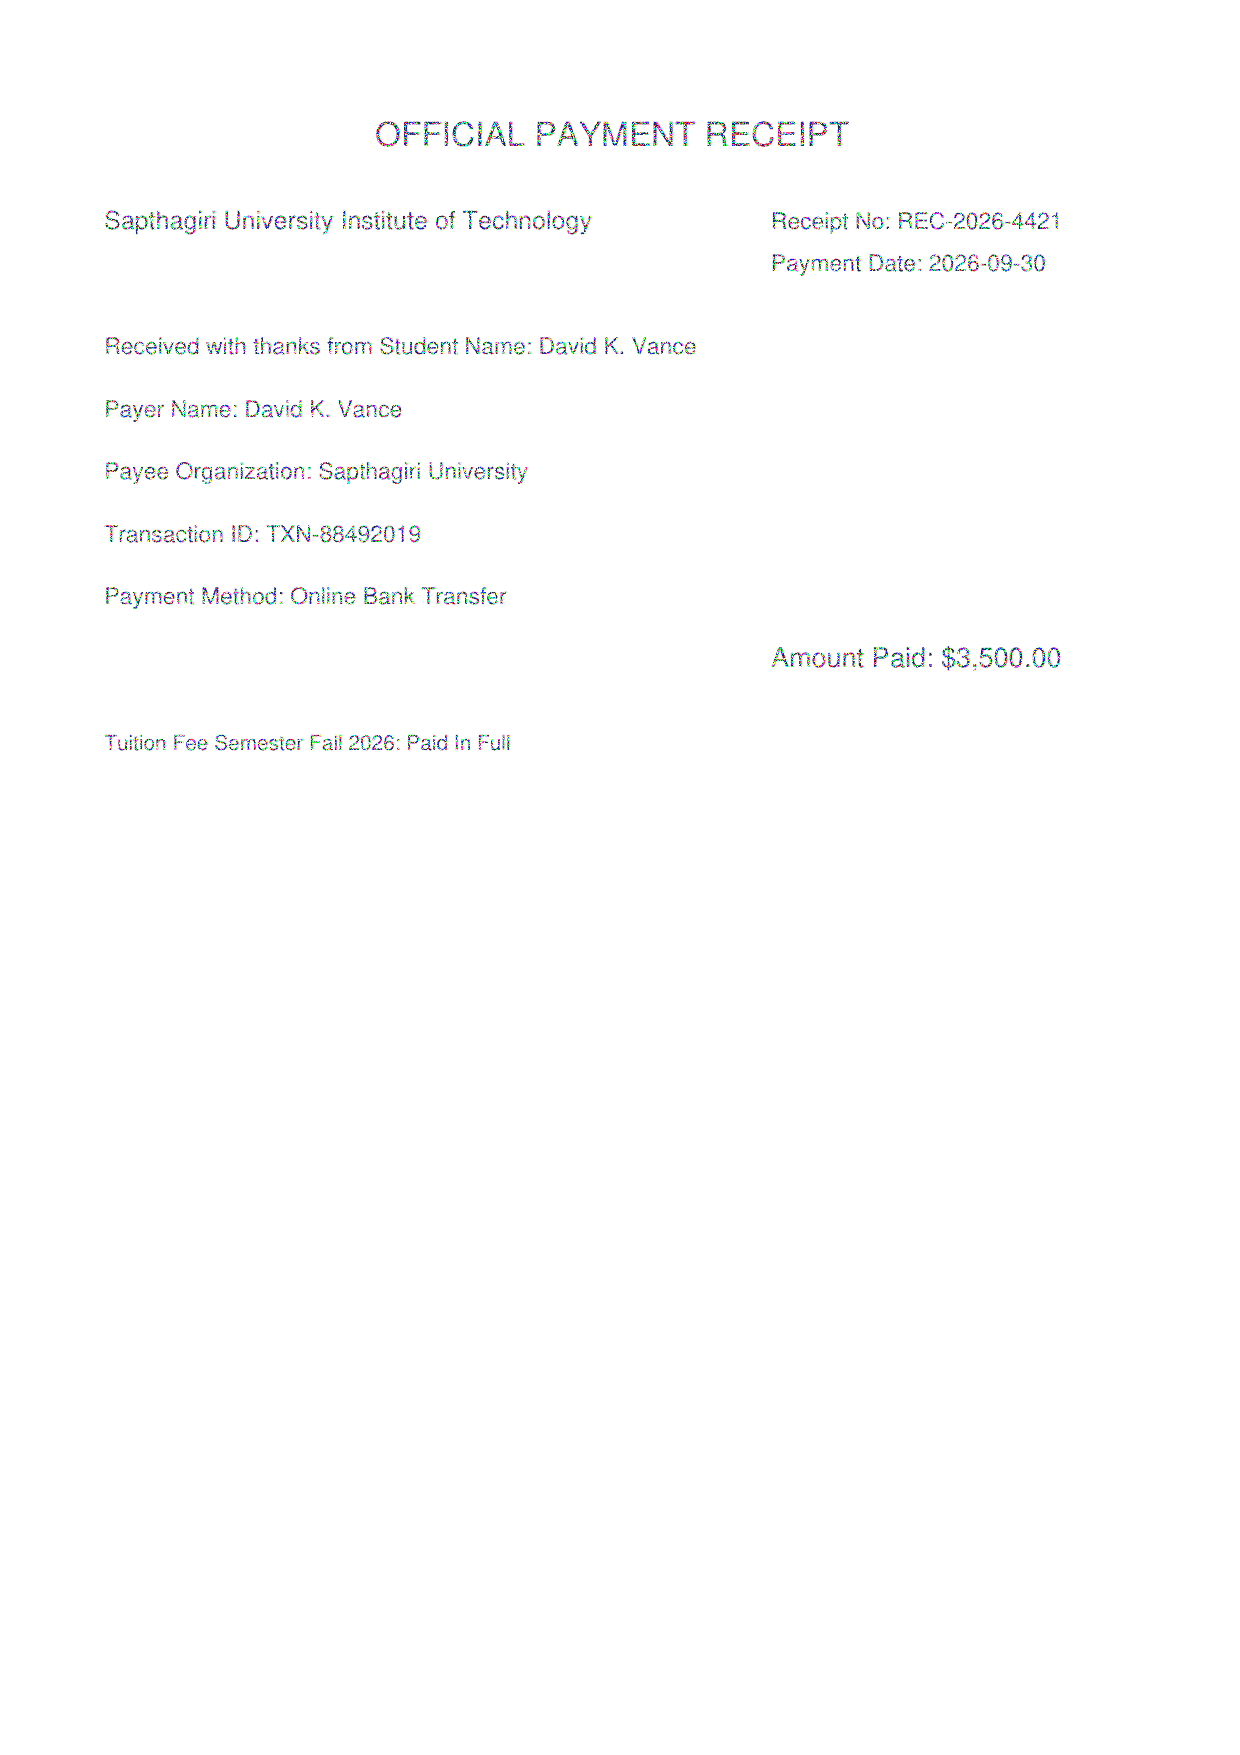
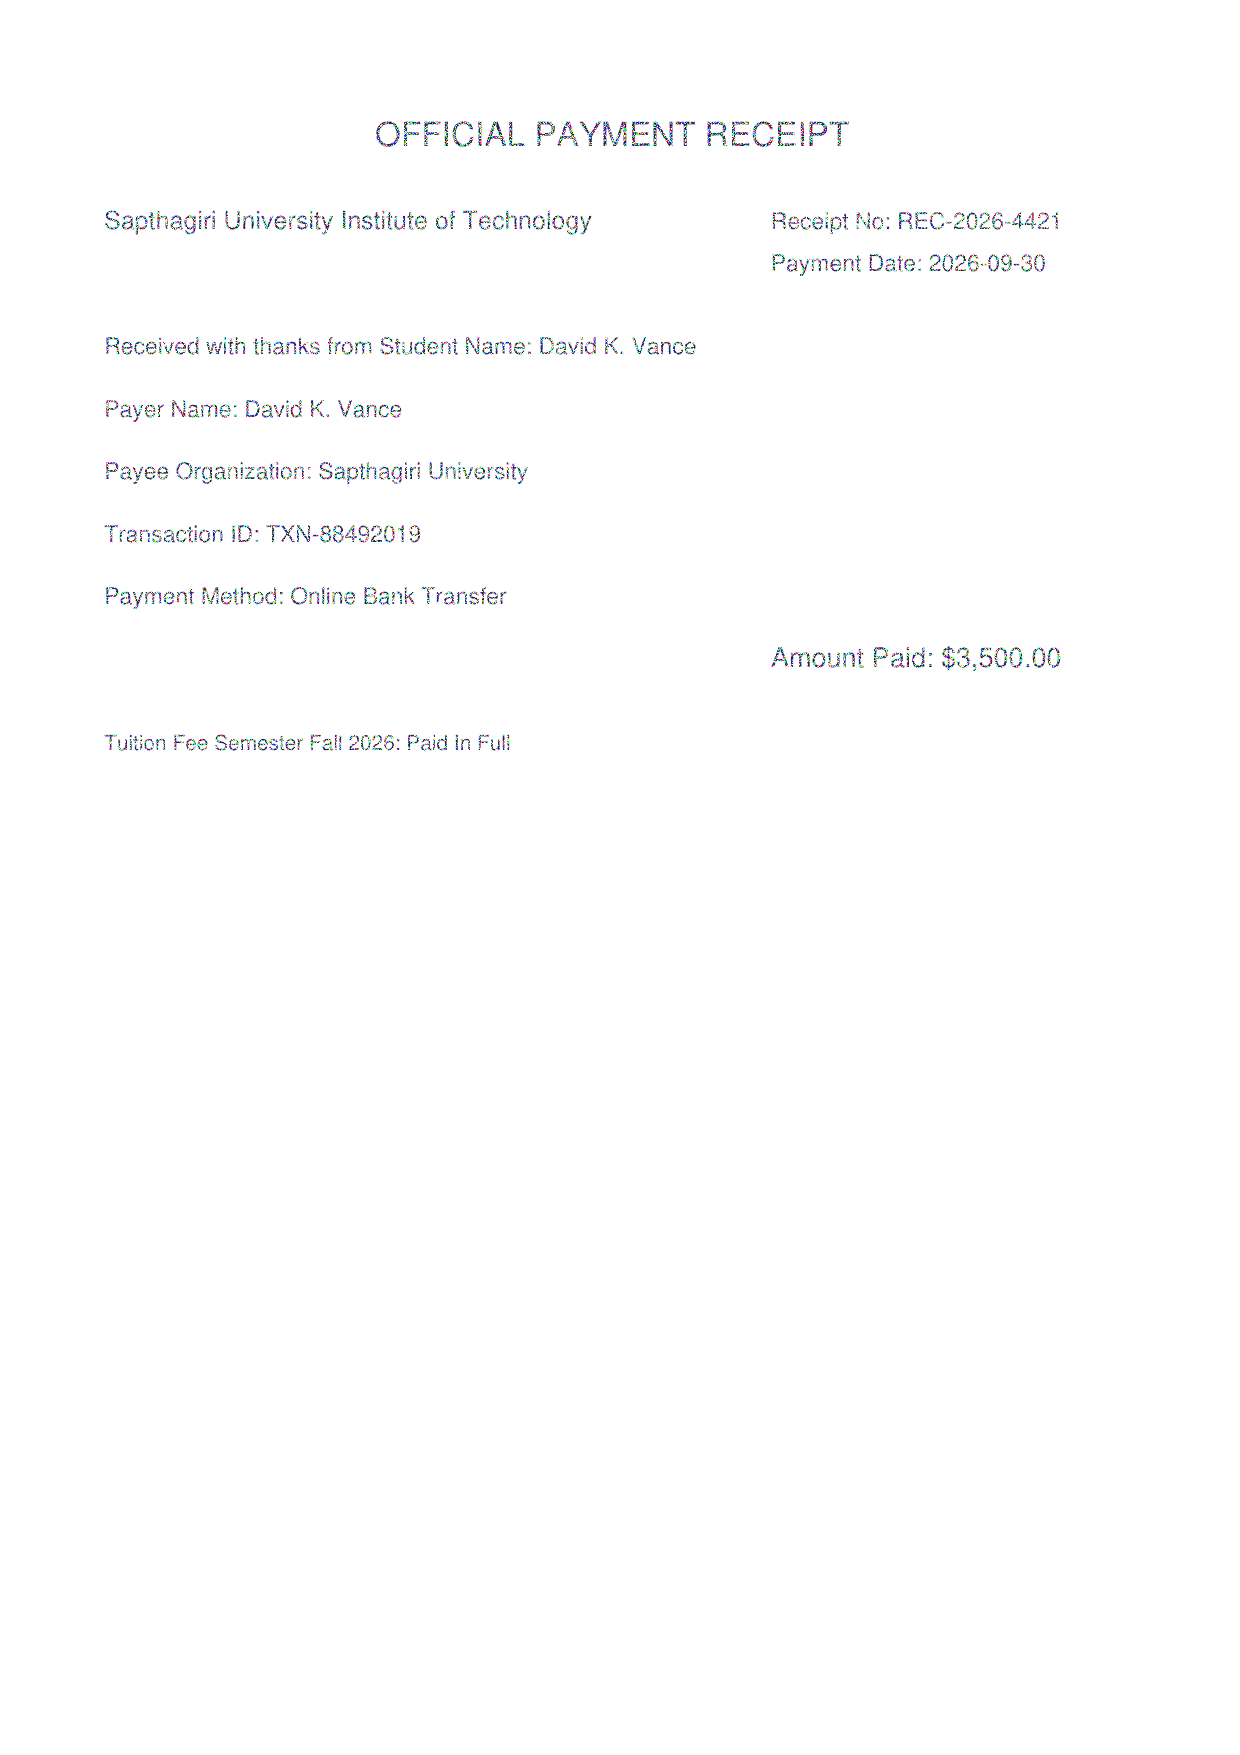
Configure production deployment for Render, Railway, and Docker

diff --git a/frontend/src/components/SideBySideReviewCanvas.tsx b/frontend/src/components/SideBySideReviewCanvas.tsx
@@ -3,6 +3,7 @@ import { useNavigate, useParams } from 'react-router-dom';
 import { ShieldCheck, CheckCircle, AlertTriangle, Edit3, Save, Download, ArrowLeft, AlertCircle, RefreshCw, X, Tag, CornerDownRight, Bot } from 'lucide-react';
 import type { DocumentResults } from '../types';
 import { api } from '../services/api';
+import { BACKEND_URL } from '../config';
 import { useToast } from './ToastNotification';
 import { CopilotDrawer } from './CopilotDrawer';
 
@@ -169,7 +170,7 @@ export const SideBySideReviewCanvas: React.FC = () => {
 
   const selectedField = data.extracted_fields.find((f) => f.id === selectedFieldId);
   const pageNum = selectedField?.page_number || 1;
-  const documentUrl = `http://localhost:8000/uploads/${documentId}_${data.filename}#page=${pageNum}`;
+  const documentUrl = `${BACKEND_URL}/uploads/${documentId}_${data.filename}#page=${pageNum}`;
 
   const getConfidencePill = (level: string, score: number) => {
     const pct = Math.round(score * 100);

diff --git a/frontend/src/config.ts b/frontend/src/config.ts
@@ -1,0 +1,22 @@
+// Centralized Configuration for DocuSense AI Frontend
+
+const isLocalVite =
+  typeof window !== 'undefined' &&
+  window.location.hostname === 'localhost' &&
+  window.location.port === '5173';
+
+// Dynamically resolve backend base URL:
+// 1. Explicit VITE_API_URL environment variable if set (for separate frontend/backend deployments)
+// 2. http://localhost:8000 when running Vite dev server locally
+// 3. window.location.origin for unified deployment (FastAPI serving built frontend)
+export const BACKEND_URL = (
+  import.meta.env.VITE_API_URL
+    ? import.meta.env.VITE_API_URL
+    : isLocalVite
+      ? 'http://localhost:8000'
+      : typeof window !== 'undefined'
+        ? window.location.origin
+        : 'http://localhost:8000'
+).replace(/\/$/, '');
+
+export const API_BASE_URL = `${BACKEND_URL}/api`;

diff --git a/frontend/src/services/api.ts b/frontend/src/services/api.ts
@@ -1,6 +1,5 @@
 import type { DocumentItem, DocumentResults, ExtractionSchema } from '../types';
-
-const API_BASE_URL = 'http://localhost:8000/api';
+import { API_BASE_URL } from '../config';
 
 export const api = {
   async healthCheck(): Promise<any> {

diff --git a/backend/app/main.py b/backend/app/main.py
@@ -35,13 +35,34 @@ app.include_router(documents.router)
 app.include_router(schemas_route.router)
 app.include_router(copilot.router)
 
-@app.get("/")
-def root():
-    return {
-        "message": "Welcome to DocuSense AI API Gateway",
-        "docs_url": "/docs",
-        "health_check": "/api/health"
-    }
+# Production Unified Frontend Serving (if frontend/dist exists)
+FRONTEND_DIST = os.path.join(os.path.dirname(os.path.dirname(os.path.dirname(os.path.abspath(__file__)))), "frontend", "dist")
+
+if os.path.exists(FRONTEND_DIST):
+    from fastapi.responses import FileResponse
+
+    assets_dir = os.path.join(FRONTEND_DIST, "assets")
+    if os.path.exists(assets_dir):
+        app.mount("/assets", StaticFiles(directory=assets_dir), name="assets")
+
+    @app.get("/{full_path:path}")
+    async def serve_spa(full_path: str):
+        if full_path.startswith("api") or full_path.startswith("uploads") or full_path in ["docs", "redoc", "openapi.json"]:
+            from fastapi import HTTPException
+            raise HTTPException(status_code=404, detail="Not Found")
+
+        file_path = os.path.join(FRONTEND_DIST, full_path)
+        if full_path and os.path.isfile(file_path):
+            return FileResponse(file_path)
+        return FileResponse(os.path.join(FRONTEND_DIST, "index.html"))
+else:
+    @app.get("/")
+    def root():
+        return {
+            "message": "Welcome to DocuSense AI API Gateway",
+            "docs_url": "/docs",
+            "health_check": "/api/health"
+        }
 
 if __name__ == "__main__":
     import uvicorn

diff --git a/backend/app/config.py b/backend/app/config.py
@@ -4,7 +4,9 @@ BASE_DIR = os.path.dirname(os.path.dirname(os.path.abspath(__file__)))
 UPLOAD_DIR = os.path.join(BASE_DIR, "uploads")
 os.makedirs(UPLOAD_DIR, exist_ok=True)
 
-DATABASE_URL = f"sqlite:///{os.path.join(BASE_DIR, 'docusense.db')}"
+DATABASE_URL = os.environ.get("DATABASE_URL") or f"sqlite:///{os.path.join(BASE_DIR, 'docusense.db')}"
+if DATABASE_URL.startswith("postgres://"):
+    DATABASE_URL = DATABASE_URL.replace("postgres://", "postgresql://", 1)
 
 ALLOWED_EXTENSIONS = {".pdf", ".png", ".jpg", ".jpeg", ".tiff"}
 MAX_FILE_SIZE_BYTES = 20 * 1024 * 1024  # 20 MB

diff --git a/backend/app/database.py b/backend/app/database.py
@@ -2,9 +2,10 @@ from sqlalchemy import create_engine, text
 from sqlalchemy.orm import sessionmaker, declarative_base
 from backend.app.config import DATABASE_URL
 
-engine = create_engine(
-    DATABASE_URL, connect_args={"check_same_thread": False}
-)
+is_sqlite = DATABASE_URL.startswith("sqlite")
+connect_args = {"check_same_thread": False} if is_sqlite else {}
+
+engine = create_engine(DATABASE_URL, connect_args=connect_args)
 SessionLocal = sessionmaker(autocommit=False, autoflush=False, bind=engine)
 Base = declarative_base()
 

diff --git a/start_app.py b/start_app.py
@@ -8,6 +8,11 @@ import json
 BASE_DIR = os.path.dirname(os.path.abspath(__file__))
 sys.path.insert(0, BASE_DIR)
 
+if hasattr(sys.stdout, 'reconfigure'):
+    sys.stdout.reconfigure(encoding='utf-8', errors='replace')
+if hasattr(sys.stderr, 'reconfigure'):
+    sys.stderr.reconfigure(encoding='utf-8', errors='replace')
+
 def start_services():
     print("=" * 70)
     print("  DocuSense AI — Full-Stack Application Launcher")

diff --git a/DEPLOYMENT.md b/DEPLOYMENT.md
@@ -1,0 +1,114 @@
+# DocuSense AI — Production Deployment Guide
+
+DocuSense AI is architected for frictionless deployment on **Render**, **Railway**, or any **Docker/VPS** environment.
+
+---
+
+## Architecture Overview for Production
+
+DocuSense AI can be deployed in two modes:
+
+1. **Dual Service Architecture (Recommended for Render)**:
+   - **Backend Web Service**: FastAPI API Gateway running on Uvicorn with auto-scaling.
+   - **Frontend Static Site**: React Vite SPA hosted on Render's global CDN.
+2. **Unified Container Architecture (Recommended for Railway & Docker)**:
+   - Single multi-stage container where Node builds the React SPA and FastAPI serves both the REST API (`/api`) and the frontend bundle on a single port.
+
+---
+
+## 1. Deploying to Render (Recommended)
+
+### Method A: 1-Click Render Blueprint (Fastest)
+
+The repository includes a ready-to-use [`render.yaml`](./render.yaml).
+
+1. Push your repository to **GitHub** (or **GitLab**).
+2. Log in to [Render Dashboard](https://dashboard.render.com/).
+3. Click **New +** > **Blueprint**.
+4. Connect your GitHub repository: `bhatshreemata-arch/codebreaker-hackathon` (or your fork).
+5. Render will automatically read `render.yaml` and configure:
+   - **`docusense-api`** (FastAPI Web Service)
+   - **`docusense-web`** (React Static Site with automatic routing and backend linkage)
+6. Add your secret environment variable in Render:
+   - `GEMINI_API_KEY`: Your Google Gemini API Key (optional for LLM extraction).
+7. Click **Apply**. Both services will build and deploy automatically!
+
+---
+
+### Method B: Manual Service Setup on Render
+
+#### 1. Backend Service:
+- **Type**: Web Service
+- **Environment**: `Python 3`
+- **Build Command**: `pip install -r requirements.txt`
+- **Start Command**: `uvicorn backend.app.main:app --host 0.0.0.0 --port $PORT`
+- **Health Check Path**: `/api/health`
+- **Environment Variables**:
+  - `PYTHON_VERSION`: `3.11.9`
+  - `GEMINI_API_KEY`: *(your key)*
+  - `GEMINI_MODEL_ID`: `gemini-2.5-flash`
+
+#### 2. Frontend Static Site:
+- **Type**: Static Site
+- **Build Command**: `cd frontend && npm install && npm run build`
+- **Publish Directory**: `./frontend/dist`
+- **Rewrite Rule**: `/*` -> `/index.html`
+- **Environment Variables**:
+  - `VITE_API_URL`: URL of your deployed backend service (e.g., `https://docusense-api.onrender.com`)
+
+---
+
+## 2. Deploying to Railway
+
+Railway detects either the [`Dockerfile`](./Dockerfile) or [`railway.json`](./railway.json) automatically.
+
+1. Log in to [Railway](https://railway.app/).
+2. Click **New Project** > **Deploy from GitHub repo**.
+3. Select this repository.
+4. Railway will automatically build the unified multi-stage container (Stage 1 builds React, Stage 2 packages FastAPI).
+5. In the **Variables** tab on Railway, set:
+   - `GEMINI_API_KEY`: *(your key)*
+   - `GEMINI_MODEL_ID`: `gemini-2.5-flash`
+   - `PORT`: (Managed by Railway automatically)
+6. Under **Settings** > **Networking**, click **Generate Domain** to get your public HTTPS URL.
+7. Both your frontend UI and backend API will be live on that domain!
+
+---
+
+## 3. Containerized Deployment (Docker / VPS / Cloud Run)
+
+### Using Docker Compose
+Run locally or on any cloud virtual machine (AWS EC2, DigitalOcean, Azure VM):
+
+```bash
+# 1. Clone repository
+git clone https://github.com/bhatshreemata-arch/codebreaker-hackathon.git
+cd codebreaker-hackathon
+
+# 2. Configure environment (optional)
+cp .env.example .env
+
+# 3. Start production container
+docker compose up -d --build
+```
+
+Access the application at `http://<your-server-ip>:8000`.
+
+### Building Standalone Docker Image
+```bash
+docker build -t docusense-ai:latest .
+docker run -p 8000:8000 -e GEMINI_API_KEY="your_key" docusense-ai:latest
+```
+
+---
+
+## Environment Variables Reference
+
+| Variable | Required? | Default | Purpose |
+| :--- | :--- | :--- | :--- |
+| `PORT` | Auto on Cloud | `8000` | Port listened to by FastAPI / Uvicorn |
+| `VITE_API_URL` | For split deploy | Auto-detected | Base URL of backend API for React client |
+| `DATABASE_URL` | Optional | SQLite local file | Connection string (supports PostgreSQL or SQLite) |
+| `GEMINI_API_KEY` | Optional | None | Multi-modal vision and Copilot extraction key |
+| `GEMINI_MODEL_ID` | Optional | `gemini-2.5-flash` | Gemini model variant |
+| `ENVIRONMENT` | Optional | `production` | Environment tier indicator |
